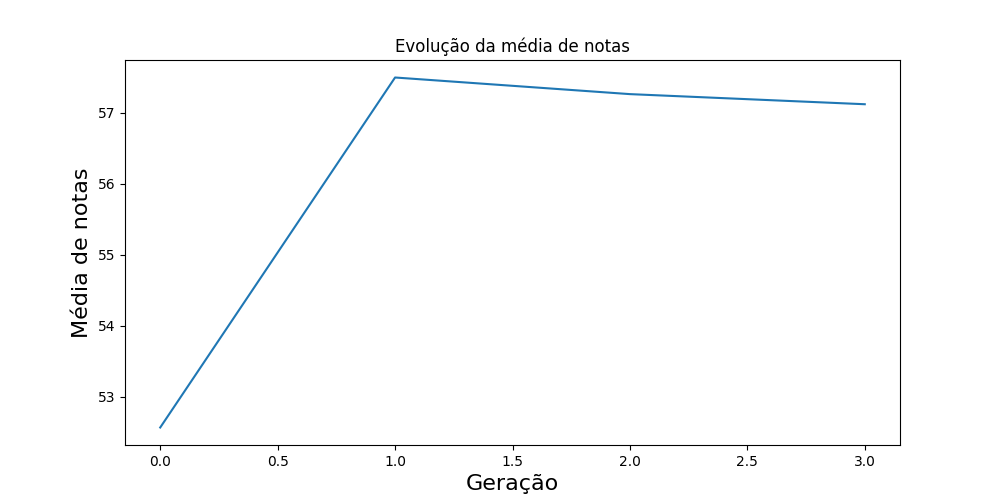
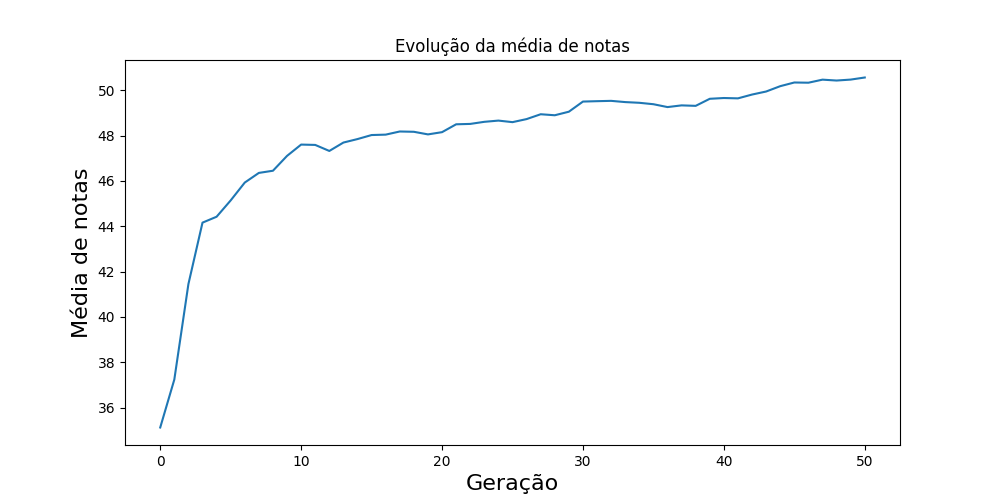
atualização

diff --git a/optimizer.py b/optimizer.py
@@ -6,9 +6,8 @@ from classe_desempenho import desempenho
 # from random import *
 
 n_selecionados = 500 # reprodução 1
-n_filhos = 50
-n_candidatos = 75
-
+n_filhos = 500
+n_candidatos = 550
 
 c_min_w = 0.2
 c_max_w = 0.6
@@ -46,7 +45,6 @@ dist_solo_ev_min = 0.06
 perfis_asa = ['Asa_1', 'Asa_2', 'Asa_3', 'Asa_4']
 perfis_eh = ['EH_1', 'EH_2', 'EH_3']
 perfis_ev = ['EV_1', 'EV_2', 'EV_3']
-
 
 # gera aleatpriamente, entre os extremos máximos e minimos os valores dos parâmetros da aeronave
 def gerar_inicial(total):
@@ -97,7 +95,8 @@ def gerar_inicial(total):
                 contador += 1
                 #print(contador)
                 aeronaves.append(aeronave)
-        except:
+        except Exception as e:
+            #print(e)
             continue
     return aeronaves
 
@@ -110,45 +109,45 @@ def variar(aeronave, sigma):  # função para variar os paramestros de uma aeron
         geometria_ev = aeronave.geometria_ev.copy()
 
         br, cr, o1x = geometria_asa[1]
-        bint, cint, o1 = geometria_asa[2]
-        b, ct, o2 = geometria_asa[3]
+        bint, cint, o1y = geometria_asa[2]
+        b, ct, o2y = geometria_asa[3]
         bt = b - br
 
         ch, bh = geometria_eh[0][1], geometria_eh[1][0]
         crv, ctv, bv = ch, geometria_ev[1][1], geometria_ev[1][0]
         pos_cp = aeronave.posicoes['cp'][0]
 
-        o1 = round(trunc_gauss(o1, sigma, 0, offset_max), 2)
-        o2 = round(trunc_gauss(o2, sigma, o1, offset_max))
-        cr = round(trunc_gauss(cr, sigma, c_min_w, c_max_w), 2)
-        ct = round(trunc_gauss(ct, sigma, c_min_w, cr - o2), 2)
-        cint = round(trunc_gauss(cint, sigma, c_min_w, cr - o1), 2)
-        br = round(trunc_gauss(br, sigma, (b_min_w/2)*0.75, (b_max_w/2)*0.75), 2)
-        bt = round(trunc_gauss(bt, sigma, 0.1, b_max_w/2 - bt), 2)
-        b = round(bt + br, 2) 
-        b = round(trunc_gauss(b, sigma, 0.1, 1.15), 2)
+        o1 = round(trunc_gauss(o1y, sigma, 0, offset_max), 3)
+        o2 = round(trunc_gauss(o2y, sigma, o1, offset_max), 3)
+        cr = round(trunc_gauss(cr, sigma, c_min_w, c_max_w), 3)
+        ct = round(trunc_gauss(ct, sigma, c_min_w, cr - o2), 3)
+        cint = round(trunc_gauss(cint, sigma, c_min_w, cr - o1), 3)
+        br = round(trunc_gauss(br, sigma, (b_min_w/2)*0.75, (b_max_w/2)*0.75), 3)
+        bt = round(trunc_gauss(bt, sigma, 0.1, b_max_w/2 - bt), 3)
+        b = round(bt + br, 3) 
+        b = round(trunc_gauss(b, sigma, 0.1, 1.15), 3)
 
-        ch = round(trunc_gauss(ch, sigma, c_min_h, c_max_h), 2)
-        bh = round(trunc_gauss(bh, sigma, b_min_h/2, b_max_h/2), 2)
+        ch = round(trunc_gauss(ch, sigma, c_min_h, c_max_h), 3)
+        bh = round(trunc_gauss(bh, sigma, b_min_h/2, b_max_h/2), 3)
 
-        bint = round(trunc_gauss(bint, sigma,((b - br)*0.3) + br, ((b - br)*0.7) + br), 2)
+        bint = round(trunc_gauss(bint, sigma,((b - br)*0.3) + br, ((b - br)*0.7) + br), 3)
 
         lambda_v = ctv/crv
         lambda_v = trunc_gauss(lambda_v, sigma, lambda_min_v, lambda_max_v)
-        crv = round(trunc_gauss(crv, sigma, ch, c_max_v), 2)
-        ctv = round(lambda_v*crv, 2)
-        bv = round(trunc_gauss(bv, sigma, b_min_h, bh), 2)
+        crv = round(trunc_gauss(crv, sigma, ch, c_max_v), 3)
+        ctv = round(lambda_v*crv, 3)
+        bv = round(trunc_gauss(bv, sigma, b_min_h, bh), 3)
 
         iw = round(trunc_gauss(aeronave.iw, sigma*50, 0, iw_max))
         ih = round(trunc_gauss(aeronave.ih, sigma*50, ih_max, 0))
 
-        ht = round(aeronave.posicoes['eh'][1], 2)
-        ht = round(trunc_gauss(ht, sigma, 0, cr), 2)
+        ht = round(aeronave.posicoes['eh'][1], 3)
+        ht = round(trunc_gauss(ht, sigma, 0, cr), 3)
 
-        lt = round(aeronave.posicoes['eh'][0], 2)
-        lt = round(trunc_gauss(lt, sigma, cr, 1.5 - ch), 2)
+        lt = round(aeronave.posicoes['eh'][0], 3)
+        lt = round(trunc_gauss(lt, sigma, cr, 1.5 - ch), 3)
 
-        pos_cp = round(trunc_gauss(pos_cp, sigma, pos_cp_min*cr, pos_cp_max*cr), 2)
+        pos_cp = round(trunc_gauss(pos_cp, sigma, pos_cp_min*cr, pos_cp_max*cr), 3)
 
         geometria_asa = [(0, cr, 0), (br, cr, 0), (bint, cint, o1), (b, ct, o2)]
         geometria_eh = [(0, ch, 0), (bh, ch, 0)]
@@ -162,7 +161,8 @@ def variar(aeronave, sigma):  # função para variar os paramestros de uma aeron
                 #print("ok1")
                 aeronave = aeronave_1
                 break
-        except:
+        except Exception as e:
+            #print(e)
             continue
     return aeronave
 
@@ -188,12 +188,10 @@ def gerarFilho(pai, mae, sigma, indiceMutacao):
         except:
             variar += 1
             if variar >= 4:
-                #aeronave_1 = variar(pai, sigma)
                 #print("Certo")
                 return pai
             else:
                 continue
-
 
 def reproducao(gerados, sigma):  # função de reprodução recebe aeronaves
     pais = sorted(gerados, key=lambda a: a.nota, reverse=True)[:n_selecionados]

diff --git a/main.py b/main.py
@@ -23,7 +23,7 @@ os.mkdir('./avl/configs/%s/geracao-%d' % (code, 0))
 avl.caminho_geometrias = './avl/configs/%s/geracao-%d/' % (code, 0)
 
 media_notas = []
-inicial = optimizer.gerar_inicial(100)
+inicial = optimizer.gerar_inicial(600)
 media_notas.append(optimizer.mediaAvaliacao(inicial))
 
 candidatos = sorted(inicial, key = lambda a : a.nota, reverse = True)[:optimizer.n_candidatos]
@@ -33,21 +33,15 @@ print("xcp = %.3f CLmax = %.4f atrim = %.3f Sw = %.3f ME = %.2f%% CP = %.2f pous
 print("Nome melhor: ", melhor.nome)
 print("Média da geração: ", optimizer.mediaAvaliacao(candidatos))
 ant = 0
-n = 5
+n = 50
 nota_ant = -1000
 notas = []
 melhores_geracao = []
-atendem_criterios = []
 
 for j in range(n):
     os.mkdir('./avl/configs/%s/geracao-%d' % (code, j+1))
     avl.caminho_geometrias = './avl/configs/%s/geracao-%d/' % (code,j + 1)
     candidatos, atendem_estabilidade = optimizer.reproducao2(candidatos, 0.01)
-    if len(atendem_estabilidade) > 0: 
-        print("Lista dos indivíduos que atendem os critérios de estabilidade: ")
-        atendem_criterios.append(atendem_estabilidade)
-        for i in atendem_estabilidade:
-            print("Nome: ", i.nome)
     melhor = max(candidatos, key= lambda a : a.nota)
     print(melhor.perfil_asa, melhor.perfil_eh, melhor.perfil_ev, "geração %d: %.3f" % (j+1, melhor.nota), " | Nota na competição: ", melhor.nota_avaliacao)
     print("xcp = %.3f CLmax = %.4f atrim = %.3f Sw = %.3f ME = %.2f%% CP = %.2f pouso = %.2f decolagem = %.2f cma = %.2f arw = %.3f arh = %.3f mtow = %.3f Sst = %.3f" % (melhor.posicoes['cp'][0], melhor.CLmax, melhor.atrim, melhor.Sw, melhor.ME*100, melhor.cp, melhor.x_pouso, melhor.x_decolagem, melhor.CMa *180/3.1416, melhor.ARw, melhor.ARh, melhor.mtow, melhor.Sst))
@@ -71,6 +65,7 @@ os.mkdir('./avl/configs/%s/resultado' % code)
 avl.caminho_geometrias = './avl/configs/%s/resultado/' % code
 i = 1
 for melhor in candidatos[:20]:
+    print("\n")
     melhor.nome = '%d'%i
     i += 1
     arq_melhor = open('./avl/configs/%s/resultado/%s.pyobj' % (code, melhor.nome), 'wb')
@@ -93,6 +88,7 @@ os.mkdir('./avl/configs/%s/melhores_geracao' % code)
 avl.caminho_geometrias = './avl/configs/%s/melhores_geracao/' % code
 i = 1
 for melhor in melhores_geracao:
+    print("\n")
     melhor.nome = '%d'%i
     i += 1
     arq_melhor = open('./avl/configs/%s/resultado/%s.pyobj' % (code, melhor.nome), 'wb')
@@ -111,30 +107,6 @@ for melhor in melhores_geracao:
     print("Solo ev: ", melhor.dist_solo_ev)
     avl.criar_arquivo(melhor, False)
 
-os.mkdir('./avl/configs/%s/atendem_criterios' % code)
-avl.caminho_geometrias = './avl/configs/%s/atendem_criterios/' % code
-i = 1
-if len(atendem_criterios) > 0:
-    for melhores in atendem_criterios:
-        for melhor in melhores:
-            melhor.nome = '%d'%i
-            i += 1
-            arq_melhor = open('./avl/configs/%s/atendem_criterios/%s.pyobj' % (code, melhor.nome), 'wb')
-            pickle.dump(melhor, arq_melhor)
-            arq_melhor.close()
-            # print("%s\n  cw = %.3f CL/CD = %.4f atrim = %.3f Sw = %.3f ME = %.2f%% Mtow = %.4f pouso = %.2f decolagem = %.2f perf = %s arw = %.3f arh = %.3f xcg = %.4f" % (melhor.nome, melhor.cw, melhor.CL_CD, melhor.atrim, melhor.Sw, melhor.ME*100, melhor.mtow, melhor.x_pouso, melhor.x_decolagem, melhor.perfil_asa, melhor.ARw, melhor.ARh, melhor.xcg))
-            # print("perfis asa: ", melhor.geometria_asa)
-            # print("perfis ev: ", melhor.geometria_ev)
-            # print("perfis eh: ", melhor.geometria_eh)
-            # print("Posicoes ev: ", melhor.posicoes["ev"])
-            # print("Posicoes eh: ", melhor.posicoes["eh"])
-            # print("Altura: ", melhor.altura)
-            # print("Largura: ", melhor.lagura_asa)
-            # print("Pos eh: ", melhor.pos_eh)
-            # print("Envergadura: ", melhor.envergadura)
-            # print("Solo ev: ", melhor.dist_solo_ev)
-            avl.criar_arquivo(melhor, False)
-
 size = 5.0
 x = np.arange(0, len(media_notas), 1)
 y = media_notas
@@ -143,4 +115,5 @@ pyplot.xlabel('Geração', fontsize=16)
 pyplot.ylabel('Média de notas', fontsize=16)
 pyplot.title(label="Evolução da média de notas")
 pyplot.plot(x,y)
+pyplot.grid()
 pyplot.savefig('Evolução da avaliação.png', format = 'png')

diff --git a/avl.py b/avl.py
@@ -161,8 +161,8 @@ def resultados_avl(aeronave, comando): # CM0, CL0, CLa, CMa, Xnp
         return None
     else:
         match = re.search(r'Alpha =..........', output)
-        if match == None:
-            print(output)
+        # if match == None:
+        #     print(output)
         results['Alpha'] = float(output[match.start() + 7:match.start() + 17])
 
     match = re.search(r'(Cmtot =..........)', output)
@@ -193,6 +193,6 @@ def resultados_avl(aeronave, comando): # CM0, CL0, CLa, CMa, Xnp
     results['CD'] = float(output[match.start() + 7:match.start() + 17])
 
     match = re.search(r'(Clb Cnr / Clr Cnb  =...........)', output)
-    results['Sst'] = float(output[match.start() + 23:match.start() + 32])
-
+    results['Sst'] = float(output[match.start() + 22:match.start() + 32])
+    
     return results

diff --git a/models.py b/models.py
@@ -42,7 +42,7 @@ class Monoplano:
         self.perfil_asa = perfil_asa
         self.perfil_eh = perfil_eh
         self.perfil_ev = perfil_ev
-        self.nome = random.choice(nomes) + '-' + random.choice(nomes) + '-' + str(random.randint(1000, 9999))
+        self.nome = random.choice(nomes) + '-' + random.choice(nomes) + '-' + str(random.randint(1000000000, 9999999999))
         self.hw = 0.2416 #altura da asa
         self.res0 = resultados_avl(self, ('alpha', 0))
         self.CM0 = self.res0['CM']
